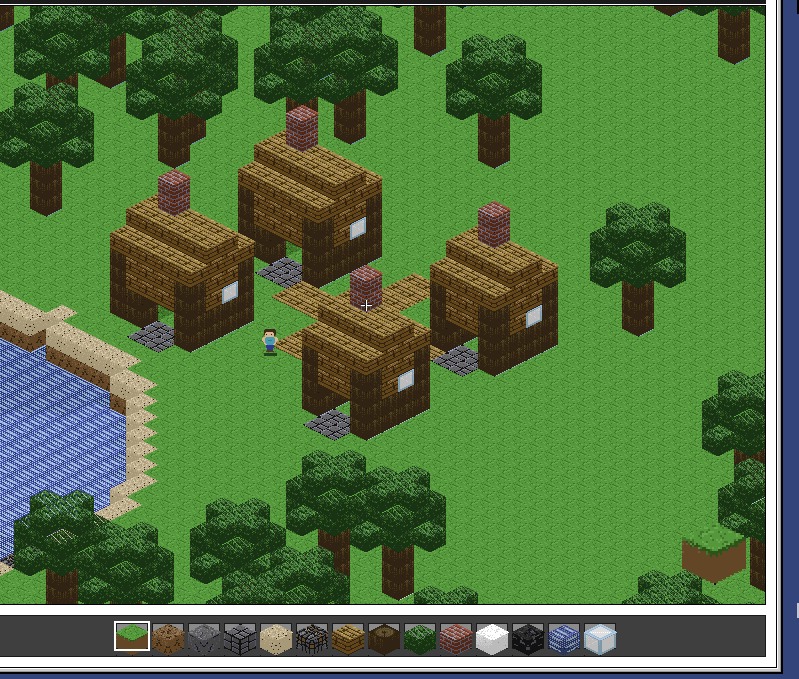
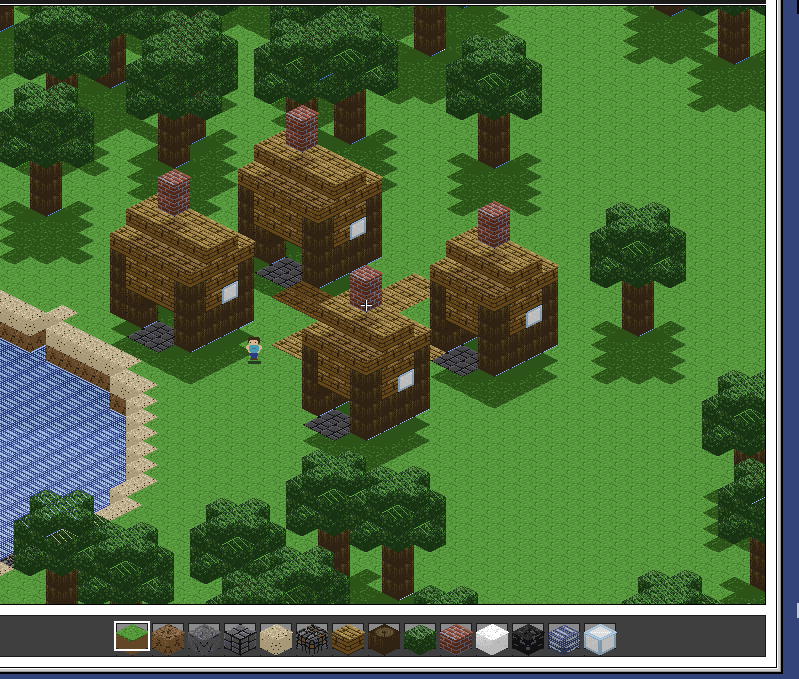
feat: cast shadows, no held-block corner, and no stuck copy of the player
Shadows: a top face now asks what stands up-sun of it -- the sun is up and to
the left, so the cells at (x-1,y-1) and (x-2,y-2). A wall or bank beside it
drops the face one shade step; a crown four blocks up reaches two cells and
drops it two, which is what puts a tree's shadow on the grass. At one step the
shadow was invisible against a texture that already mixes three palette steps,
so the strengths are 40 and 110.

The held-block corner in the bottom right is gone, with its swing damage box.

The player left a small copy of himself behind when walking between tiles: the
figure is drawn only when its rectangle is damaged, and between tile boundaries
nothing was damaged at all, so the drawing drifted several ticks behind the
simulation -- and damaging the *current* rectangle then missed it. The damage
now follows the rectangle the figure was actually drawn into.

diff --git a/src/ui/game_window.c b/src/ui/game_window.c
@@ -444,11 +444,6 @@ static void DrawCrackOverlay(short x, short y, short z, short ticks)
 
 /* The rectangle the held block occupies, so the swing can repaint just that
  * instead of the whole display. */
-static void HeldBlockRect(Rect *out)
-{
-    SetRect(out, (short)(sDisplayRect.right - 130), (short)(sDisplayRect.bottom - 100),
-            (short)(sDisplayRect.right - 10), (short)(sDisplayRect.bottom - 8));
-}
 
 /* The rectangle the player's figure occupies at its current position. */
 static void PlayerFigureRect(Rect *out)
@@ -1379,10 +1374,6 @@ static void GameWindow_Render(void)
             if (SectRect(&overlay, &sRenderRect, &touched)) {
                 HUD_DrawCrosshair();
             }
-            HeldBlockRect(&overlay);
-            if (SectRect(&overlay, &sRenderRect, &touched)) {
-                HUD_DrawHeld((BlockID)(sBlockType + 1), Swing());
-            }
         }
 
         /* The ring is drawn through the pixel path, so it is not clipped by the
@@ -1586,14 +1577,6 @@ void GameWindow_HandleEvent(EventRecord *event)
         UpdateHover();
         Sprite_Work[0] += (long)((unsigned long)TickCount() - t0);
         Sprite_Work[1]++;
-    }
-    /* Keep the held block's swing animating: nothing else invalidates it, and
-     * only the block's own corner needs repainting. */
-    if (sSwingUntil > (unsigned long)TickCount()) {
-        Rect swingRect;
-
-        HeldBlockRect(&swingRect);
-        MarkDirty(&swingRect);
     }
     FlushDirty();
 }
@@ -1905,11 +1888,9 @@ void GameWindow_Idle(void)
         short wasTileY = (short)(sPlayer.y >> 16);
         short wasZ = (short)(sPlayer.z >> 16);
         Boolean wasGrounded = sPlayer.onGround;
-        Rect oldFigure;
-
-        /* Where the figure is drawn right now: the step is about to move it, and
-         * without damage there too the old drawing stayed behind as a trail. */
-        PlayerFigureRect(&oldFigure);
+        long wasPosX = sPlayer.x;
+        long wasPosY = sPlayer.y;
+        long wasPosZ = sPlayer.z;
 
         if (sLastPhysics == 0) {
             sLastPhysics = now;
@@ -1997,11 +1978,18 @@ void GameWindow_Idle(void)
             if (sCamX != wasCamX || sCamY != wasCamY) {
                 MarkDirty(&sDisplayRect);
             }
-            else if (tileX != wasTileX || tileY != wasTileY ||
-                     (short)(sPlayer.z >> 16) != wasZ) {
+            else if (sPlayer.x != wasPosX || sPlayer.y != wasPosY ||
+                     sPlayer.z != wasPosZ) {
                 Rect figure;
 
-                MarkDirty(&oldFigure);
+                /* Damage where the figure was *drawn*, not where the player was
+                 * a tick ago: between tile boundaries no repaint happens, so the
+                 * drawing can be several ticks behind the simulation, and
+                 * damaging the current rect left a small copy of the player
+                 * standing where he entered the tile. */
+                if (sFigureValid) {
+                    MarkDirty(&sFigureRect);
+                }
                 PlayerFigureRect(&figure);
                 MarkDirty(&figure);
             }
@@ -2074,14 +2062,6 @@ void GameWindow_Idle(void)
         Sprite_Work[1]++;
     }
 
-    /* Keep the held block's swing animating: nothing else invalidates it, and
-     * only the block's own corner needs repainting. */
-    if (sSwingUntil > (unsigned long)TickCount()) {
-        Rect swingRect;
-
-        HeldBlockRect(&swingRect);
-        MarkDirty(&swingRect);
-    }
 
     if (sStripDirty) {
         GrafPtr saved;

diff --git a/src/ui/world_view.c b/src/ui/world_view.c
@@ -262,6 +262,31 @@ static void DrawBlock(const WorldView *v, short x, short y, short z, BlockID id,
     if (showTop) {
         topShade = Light_Combine(Light_FaceFactor(kLightFaceTop),
                                  Light_Occlusion(x, y, z, kLightFaceTop));
+
+        /* Cast shadow. The sun sits up and to the left, so a column casts down
+         * and to the right: the two cells up-sun of a top face decide whether it
+         * stands in shadow. The near one covers a wall or a bank right beside
+         * it; a crown four blocks up still reaches two cells at this angle,
+         * which is what puts a tree's shadow on the grass instead of a ring of
+         * darkened leaves. */
+        {
+            short nearTop = World_TopZ((short)(x - 1), (short)(y - 1));
+            short farTop  = World_TopZ((short)(x - 2), (short)(y - 2));
+            short cast = 0;
+
+            if (nearTop > z) {
+                cast = 1;
+            }
+            if (nearTop > (short)(z + 3) || farTop > (short)(z + 3)) {
+                cast = 2;
+            }
+            if (cast == 1) {
+                topShade = (short)(topShade - 40);   /* one shade step down */
+            }
+            else if (cast == 2) {
+                topShade = (short)(topShade - 110);  /* two steps: a real patch */
+            }
+        }
     }
     if (showLeft) {
         leftShade = Light_Combine(Light_FaceFactor(kLightFaceLeft),

diff --git a/README.md b/README.md
@@ -7,7 +7,8 @@ grass, sand, water, wood and stone drawn as 32 × 16 isometric tiles, with a
 village of four houses, a forest, a lake and a snow-capped hill. Blocks are
 full cubes — a block of grass is one block of dirt with grass baked into its
 top and its lip — and every face is textured and shaded by direction, with
-ambient occlusion where faces crowd together. It is written in C against the
+ambient occlusion where faces crowd together and a cast shadow from anything
+taller than the ground it stands on. It is written in C against the
 classic Macintosh Toolbox and compiled with
 [Retro68](https://github.com/autc04/Retro68). There is no 3D hardware and no
 68020-only code: everything is integer 2D QuickDraw, so it runs on a Mac Plus
